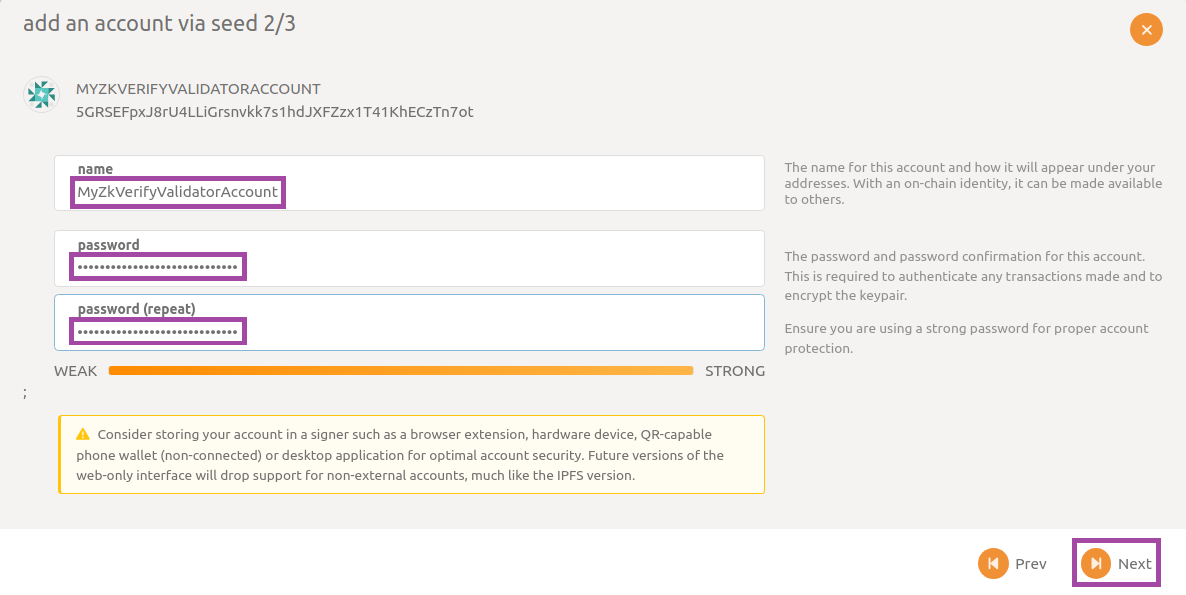
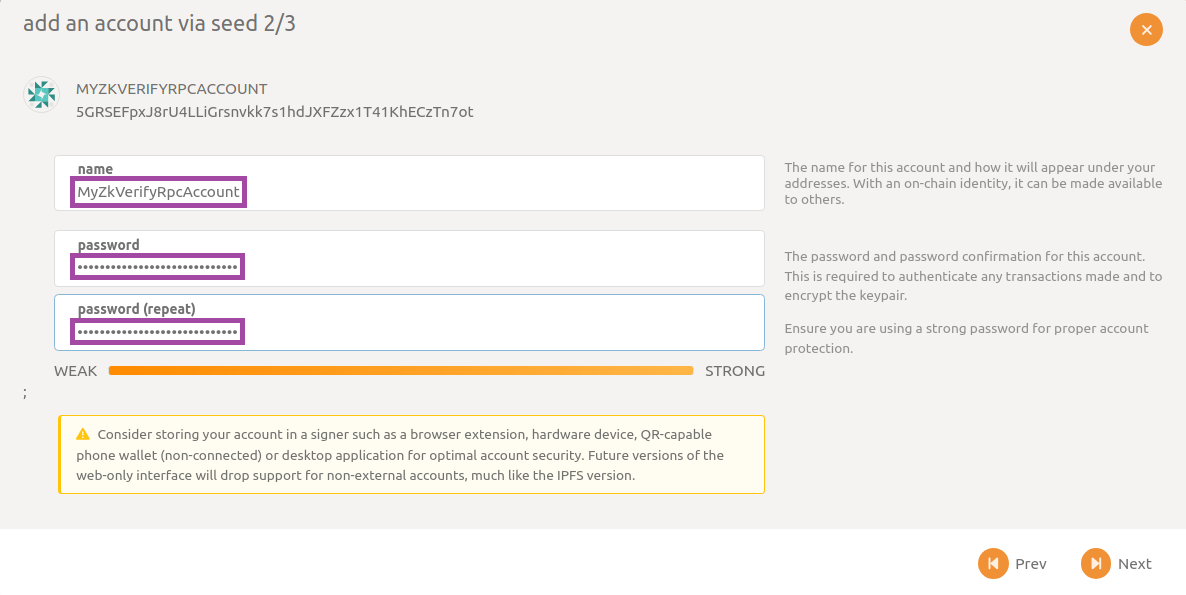
Moved account import from validator node to rpc node
Minor refactoring included

diff --git a/docs/07-how_to_run_a_node/03-run_using_docker/02-run-rpc-node.md b/docs/07-how_to_run_a_node/03-run_using_docker/02-run-rpc-node.md
@@ -63,7 +63,7 @@ If you want to explore and interact a bit with your node, you can proceed the wa
 
 ## Explore and Interact with the Node
 
-Let’s dive deeper and have a look at some more detailed logs, type:
+Let's dive deeper and have a look at some more detailed logs, type:
 
 ```bash
 docker logs rpc-node
@@ -80,13 +80,13 @@ some lines worth to comment on here are:
 - `Local node identity is: 12D3KooWPy5kBKVxRwwz8hjyTKVA4WouoLipBSQVnUSBEVtq8G4X`: the unique identifier for your node, automatically generated at startup,
 - `Highest known block at #0`: being this your very first run, you are missing any blockchain data, hence your copy of the blockchain is just the genesis block (height 0)
 
-Let’s proceed looking at how your node is syncing the actual blockchain data. Type again the command (assuming some seconds have passed since the startup):
+Let's proceed looking at how your node is syncing the actual blockchain data. Type again the command (assuming some seconds have passed since the startup):
 
 ```bash
 docker logs rpc-node
 ```
 
-and you’ll see the synchronization is taking place:
+and you'll see the synchronization is taking place:
 
 ![alt_text](./img/node_syncing.png)
 
@@ -95,13 +95,13 @@ focus on these lines:
 - `Starting new tree with id: XXX`: these are the trees associated to the proofs that are sent to the **zkVerify** mainchain (by a wallet, a dAPP, an L2, …); they are verified by **zkVerify** mainchain and a root publish event is then automatically submitted; those reported here are historical data, published weeks or months ago, contained in the blocks your node is downloading from the network,
 - `⚙⚙  Syncing 1171.2 bps, target=#16085 (8 peers), best: #11823 (0xa652…b939), finalized #11776 (0x7564…3273), ⬇ 418.2kiB/s ⬆ 2.7kiB/s`: many useful information is provided here, like the current tip of your node (11823), the target tip of the overall chain (16085) and the number of peers your node is connected to (8 peers)
 
-The overall synchronization depends on the actual height of the overall chain, but nowaday it’s a quite fast process requiring less than ten minutes using a standard PC on a home network. At the end of the synchronization you should be able to see something similar to:
+The overall synchronization depends on the actual height of the overall chain, but nowaday it's a quite fast process requiring less than ten minutes using a standard PC on a home network. At the end of the synchronization you should be able to see something similar to:
 
 ![alt_text](./img/node_synced.png)
 
 here your node has completed the initial download of blockchain data (batched together) and is now periodically idling while listening to new incoming blocks (being received one by one, each six seconds).
 
-Just to show you data are persistent (thanks to usage of Docker volume) and you don’t need to download each time all the blocks, try shutting down and then up again your node using these two commands:
+Just to show you data are persistent (thanks to usage of Docker volume) and you don't need to download each time all the blocks, try shutting down and then up again your node using these two commands:
 
 ```bash
 docker compose -f nh-node-docker-compose.yaml down
@@ -114,7 +114,7 @@ then inspect recent logs with:
 docker logs nh-node-simple_node --tail 100
 ```
 
-and you’ll see there is no more that long sequence of logs reporting initial download of blockchain data (`Starting new tree with id: XXX`).
+and you'll see there is no more that long sequence of logs reporting initial download of blockchain data (`Starting new tree with id: XXX`).
 
 If for any reason you need to fully erase blockchain data you can do this by stopping the container and deleting the Docker volume:
 
@@ -123,7 +123,7 @@ docker compose -f nh-node-docker-compose.yaml down
 docker volume rm zkverify-rpc_node-data
 ```
 
-It’s now time to interact a bit with your node, and the best tool for achieving this is PolkadotJS. Open up your preferred browser and type in the search bar this URL [https://polkadot.js.org/apps/#/explorer](https://polkadot.js.org/apps/#/explorer). Then make sure you are targeting the local node by checking through the dropdown panel in the top left corner:
+It's now time to interact a bit with your node, and the best tool for achieving this is PolkadotJS. Open up your preferred browser and type in the search bar this URL [https://polkadot.js.org/apps/#/explorer](https://polkadot.js.org/apps/#/explorer). Then make sure you are targeting the local node by checking through the dropdown panel in the top left corner:
 
 ![alt_text](./img/polkadotjs_check_network.png)
 
@@ -142,3 +142,37 @@ Again, the node is responding to your request, this time providing the full body
 ![alt_text](./img/polkadotjs_query_block.png)
 
 Note that if during the execution of script `init.sh` you selected non-archival node you could incur in an error like `-32000: Client error: Api called for an unknown Block: State already discarded for 0xa048…ac51`, reporting too old data have been pruned.
+
+Another type of operation you can perform is sending some tokens from an account to another, clearly is essential you possess some tokens on one of yours. In Substrate accounts are associated to a pair of keys, one private and one public (very similar to Bitcoin addresses or Ethereum EOAs).
+
+In order to sumbit extrinsics (transactions, in Substrate terminology) with PolkadotJS from one of your account, you need to import it within the application.
+
+Navigate to section `Settings` then subsection `account options`, open drop-down list `in-browser account creation`, select option `Allow local in-browser account storage` and click on `Save` button:
+
+![alt_text](./img/polkadotjs_settings.png)
+
+Next, navigate to section `Accounts` then subsection `Accounts` and click on `Account` button:
+
+![alt_text](./img/polkadotjs_accounts.png)
+
+fill in the secret phrase or raw seed associated to your account (ignore the newly one generated by the wizard), tick checkbox `i have saved my mnemonic seed safely` and click on `Next` button:
+
+![alt_text](./img/polkadotjs_accounts_s1.png)
+
+then provide input for fields `name`, `password`, `password (repeat)` and click on `Next` button:
+
+![alt_text](./img/polkadotjs_accounts_s2.png)
+
+finally review the summary and click on confirmation button `Save`:
+
+![alt_text](./img/polkadotjs_accounts_s3.png)
+
+After importing your account, you can send funds from the same page by clicking on `send` button:
+
+![alt_text](./img/polkadotjs_send_tokens.png)
+
+selecting your account as source and typing in the address of the destination account and the amount of tokens to send, finally click on `Make Transfer`:
+
+![alt_text](./img/polkadotjs_send_tokens_s1.png)
+
+in few seconds you should receive a feedback by a popup message on the top-right corner confirming you the extrinsic has been succesfully submitted and funds transferred.

diff --git a/docs/07-how_to_run_a_node/03-run_using_docker/04-run-validator-node.md b/docs/07-how_to_run_a_node/03-run_using_docker/04-run-validator-node.md
@@ -86,27 +86,7 @@ Then you can connect to the RPC node using PolkadotJS (refer to [this section](.
 
 In order to use PolkadotJS with your validator account, you need to import it within the application.
 
-Navigate to section `Settings` then subsection `account options`, open drop-down list `in-browser account creation`, select option `Allow local in-browser account storage` and click on `Save` button:
-
-![alt_text](./img/polkadotjs_settings.png)
-
-Next, navigate to section `Accounts` then click on `+` button:
-
-![alt_text](./img/polkadotjs_accounts.png)
-
-fill in the secret phrase you provided to (or generated for you by) the script `init.sh` (ignore the one provided by the wizard), tick checkbox `i have saved my mnemonic seed safely` and click on `Next` button:
-
-![alt_text](./img/polkadotjs_accounts_s1.png)
-
-then provide input for fields `name`, `password`, `password (repeat)` and click on `Next` button:
-
-![alt_text](./img/polkadotjs_accounts_s2.png)
-
-finally review the summary and click on confirmation button `Save`:
-
-![alt_text](./img/polkadotjs_accounts_s3.png)
-
-From here on all the extrinsics you submit with PolkadotJS will use your validator account (even if you are submitting them with your rpc node, doesn't matter since you imported your validator account), hence transaction fees will be deducted from its balance.
+From here on you can choose any the extrinsic you submit with PolkadotJS to use your validator account (even if you are submitting them with your rpc node, doesn't matter since you imported your validator account), hence transaction fees will be deducted from its balance.
 
 Now you need to define the session public keys your validator node will use for participating in the consensus (i.e. authoring new blocks and selecting the best chain). This can be achieved by concatenating the three Babe, Grandpa and ImOnline public keys you can derive from your secret phrase. Inside a terminal type this command:
 
@@ -215,10 +195,12 @@ For submitting staking extrinsic navigate back to section `Developer` then subse
 
 ![alt_text](./img/polkadotjs_staking_bond.png)
 
-insert your account password and confirm by clicking on button `Sign and Submit`.
+insert your account password and confirm by clicking on button `Sign and Submit`. Wait for popup message confirming successful submission.
 
 Now that the blockchain knows you have staked your tokens it's time for the last step, namely declaring you are actually ready to act as a validator. Navigate one last time to section `Developer` then subsection `Extrinsics` and select `staking`, `validate` in the two dropdown panels; remember to select your validator account as `using the selected account`, then fill in the textboxes `commission: Compact<Perbill>` with the fraction of the commission you keep if other user delegate their tokens to you by nomination (parts per billion, if you don't know which value to set use `100000000`) and select `No` in the dropdown panel `blocked: bool`, finally click on `Submit Transaction` button:
 
 ![alt_text](./img/polkadotjs_staking_validate.png)
+
+insert your account password and confirm by clicking on button `Sign and Submit`. Wait for popup message confirming successful submission.
 
 *And you are done!* You just need to wait for the completion of the current era and of the next one (since an era lasts for 6 hours, in the worst case this would be 12 hours), thereafter your node will start authoring new blocks. You can check this navigating to section `Network` then subsection `Explorer` for a summarized view of the list of recently authored blocks, or to section `Network` then subsection `Staking` for an advanced console specifically designed for staking.

diff --git a/docs/07-how_to_run_a_node/03-run_using_docker/01-preliminaries.md b/docs/07-how_to_run_a_node/03-run_using_docker/01-preliminaries.md
@@ -23,7 +23,7 @@ then type:
 docker compose version
 ```
 
-if any of the commands is reporting an error you can follow the instructions from the official [Docker guide](https://docs.docker.com/engine/install/) and [Docker Compose guide](https://docs.docker.com/compose/install/). Hereon, a very basic understanding of Docker concepts and features is assumed; if you’re unfamiliar, proceed anyway and seek additional information online as needed.
+if any of the commands is reporting an error you can follow the instructions from the official [Docker guide](https://docs.docker.com/engine/install/) and [Docker Compose guide](https://docs.docker.com/compose/install/). Hereon, a very basic understanding of Docker concepts and features is assumed; if you're unfamiliar, proceed anyway and seek additional information online as needed.
 
 For checking `jq` tool availability, open a terminal and type:
 
@@ -35,7 +35,7 @@ if the command is reporting an error you can install it with:
 
 - Linux: command `sudo apt-get install jq`,
 - macOS: command `brew install jq`,
-- Windows: download it from the [official GitHub release page](https://github.com/stedolan/jq/releases/latest/download/jq-win64.exe), rename the exectuable as `jq.exe` and save it in a directory that’s part of your system’s `PATH` (e.g. `C:\Windows\System32` or `C:\Windows`).
+- Windows: download it from the [official GitHub release page](https://github.com/stedolan/jq/releases/latest/download/jq-win64.exe), rename the exectuable as `jq.exe` and save it in a directory that's part of your system's `PATH` (e.g. `C:\Windows\System32` or `C:\Windows`).
 
 For checking `gnu-sed` tool availability, open a terminal and type:
 

diff --git a/docs/07-how_to_run_a_node/01-chosing_the_node_type.md b/docs/07-how_to_run_a_node/01-chosing_the_node_type.md
@@ -4,7 +4,7 @@ title: Chosing the Node Type
 
 ## Node Types
 
-When setting up a **zkVerify** node, the first decision you’ll need to make is which type of node to run. While there are various options, three main types of node can be identified:
+When setting up a **zkVerify** node, the first decision you'll need to make is which type of node to run. While there are various options, three main types of node can be identified:
 
 - **RPC node:**
   - connects to the other nodes and interacts with them by sending and receiving blockchain data,
@@ -22,4 +22,4 @@ When setting up a **zkVerify** node, the first decision you’ll need to make is
   - should be run in a high-security and high-availability environment, due to its critical role,
   - suitable for users who are prepared to run a validator, supporting the chain and earning new tokens through staking.
 
-*Not sure which option to choose?* If you’re uncertain about which node type suits your needs, consider starting with an RPC node. It will allow you to explore the ecosystem and gain familiarity.
+*Not sure which option to choose?* If you're uncertain about which node type suits your needs, consider starting with an RPC node. It will allow you to explore the ecosystem and gain familiarity.

diff --git a/docs/07-how_to_run_a_node/03-run_using_binaries/01-preliminaries.md b/docs/07-how_to_run_a_node/03-run_using_binaries/01-preliminaries.md
@@ -1,3 +1,5 @@
 ---
 title: Preliminaries
 ---
+
+To be completed
